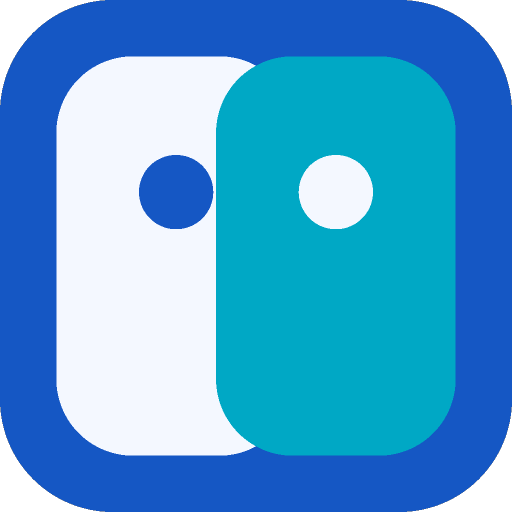
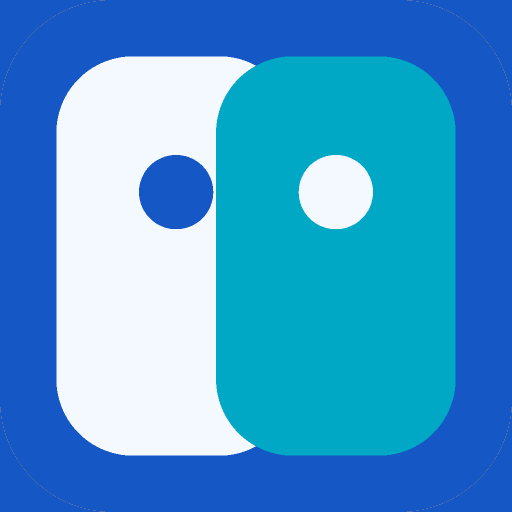
Serve apex assetlinks and keep the launcher blue ring (#127)
* Stop the apex assetlinks redirect and trust both TWA hosts.

Vercel compiles redirect sources with path-to-regexp 6.1.0, which turned the escaped lookahead into a literal backslash, so /.well-known/assetlinks.json on chaiquote.hk still 301'd. The shell stays on www and also trusts the apex (versionCode 3).

* Keep the blue ring inside the adaptive launcher mask.

The home-screen source is already inset for Android's 108dp layer. Bubblewrap's extra 8.5dp padding was clipping that ring. The Play listing stays the edge-to-edge store icon.

---------

diff --git a/src/lib/canonical.ts b/src/lib/canonical.ts
@@ -46,9 +46,10 @@ export function canonicalUrlFromMatches(
 
 /**
  * In-app apex→www 301 skips Digital Asset Links and the web manifest.
- * Vercel's domain redirect is HTTP 308 and runs before vercel.json and this
- * middleware, so production apex still 308s until that dashboard redirect is
- * removed. The TWA host is www.chaiquote.hk, which already returns 200.
+ * vercel.json uses the same skip. A Vercel Domains redirect (HTTP 308) still
+ * runs before both; while that dashboard redirect is on, apex never reaches
+ * this function. The TWA launches https://www.chaiquote.hk/ and also trusts
+ * https://chaiquote.hk once assetlinks is HTTP 200 there.
  */
 const TWA_UNREDIRECTED_PATHS = new Set([
   "/.well-known/assetlinks.json",

diff --git a/scripts/generate-twa-icons.py b/scripts/generate-twa-icons.py
@@ -1,0 +1,50 @@
+#!/usr/bin/env python3
+"""Resize the adaptive launcher source into Bubblewrap mipmaps.
+
+`android/icons/icon-512-adaptive.png` is already scaled inward so Android's
+adaptive mask (safe circle 66dp inside the 108dp layer) still shows the blue
+ring. These bitmaps fill that 108dp layer. Do not also apply Bubblewrap's
+8.5dp inset — that padding is for a full-bleed maskable icon and would shrink
+this artwork a second time.
+
+`android/store_icon.png` is the Play Console listing icon (blue to the edges).
+This script does not write it. 阿祺 uploads that file in Play Console; it is
+not the home-screen icon.
+"""
+
+from __future__ import annotations
+
+import sys
+from pathlib import Path
+
+from PIL import Image
+
+ROOT = Path(__file__).resolve().parents[1]
+SOURCE = ROOT / "android/icons/icon-512-adaptive.png"
+RES = ROOT / "android/app/src/main/res"
+
+# 108dp adaptive-icon layer at each launcher density.
+MASKABLE = {
+    "mipmap-mdpi": 108,
+    "mipmap-hdpi": 162,
+    "mipmap-xhdpi": 216,
+    "mipmap-xxhdpi": 324,
+    "mipmap-xxxhdpi": 432,
+}
+
+
+def generate() -> None:
+    src = Image.open(SOURCE).convert("RGBA")
+    if src.size != (512, 512):
+        raise SystemExit(f"{SOURCE} must be 512x512, got {src.size}")
+    for folder, size in MASKABLE.items():
+        dest = RES / folder / "ic_maskable.png"
+        src.resize((size, size), Image.Resampling.LANCZOS).save(dest)
+
+
+if __name__ == "__main__":
+    try:
+        generate()
+    except Exception as err:
+        print(err, file=sys.stderr)
+        raise SystemExit(1) from err

diff --git a/android-twa/README.md b/android-twa/README.md
@@ -4,7 +4,7 @@ Android 專案已經用 Bubblewrap 生成，喺 [`android/`](../android/README.m
 
 套件名：`hk.chaiquote.app`  
 啟動網址：https://www.chaiquote.hk/  
-上傳金鑰 SHA-256 已經寫入 `public/.well-known/assetlinks.json`（唔再係 `00:00:...`）。
+upload key 同 Play App Signing 兩組 SHA-256 已經寫入 `public/.well-known/assetlinks.json`。
 
 金鑰檔同密碼唔喺 git。下載今次 agent artifacts 嘅 `chaiquote-upload.jks` 同 `chaiquote-upload-credentials.txt`，自己保管。
 
@@ -15,7 +15,8 @@ Android 專案已經用 Bubblewrap 生成，喺 [`android/`](../android/README.m
 1. 開 [Google Play Console](https://play.google.com/console)。個人開發者帳戶總費 **USD 25 一次**。
 2. 建 App：套件名 `hk.chaiquote.app`，名稱「齊Quote」。
 3. 內部測試上傳 `android/app-release-bundle.aab`（自己用 upload key 重打，或用今次 artifacts 嘅 AAB）。
-4. 喺 Play App signing 頁再抄 **應用程式簽署金鑰** SHA-256，加落 assetlinks（保留 upload 嗰組）。
-5. 個人戶口通常要 **12 個測試者測滿 14 天**才可申請公開發佈。
+4. 內部測試上傳 versionCode 3（`1.0.2`）。呢包先至信任 apex，主畫面圖示先會見到藍圈。assetlinks 已經有 Play App Signing 指紋，唔好刪。
+5. 商店資訊圖示上傳 `android/store_icon.png`（512，藍色貼到四邊）。主畫面用嘅係另一張 adaptive 圖，已經打入 AAB，唔好喺 Console 用 adaptive 嗰張做商店圖示。
+6. 個人戶口通常要 **12 個測試者測滿 14 天**才可申請公開發佈。
 
 唔能代你付錢、過身份驗證、或用你個人證最後提交。

diff --git a/android-twa/PLAY-LISTING.md b/android-twa/PLAY-LISTING.md
@@ -18,6 +18,11 @@
 
 網站：https://www.chaiquote.hk/
 
+## 圖示
+商店資訊用 `android/store_icon.png`（512×512，藍色貼到四邊）。阿祺喺 Play Console 上傳呢張。
+
+主畫面圖示唔係呢張。Adaptive 圖喺 `android/icons/icon-512-adaptive.png`，已經打入 versionCode 3 嘅 AAB。用錯張做商店圖示，列表會見到縮入嘅圓標；用錯張做主畫面，藍圈會被系統裁走。
+
 ## 分類
 Tools / Lifestyle
 
